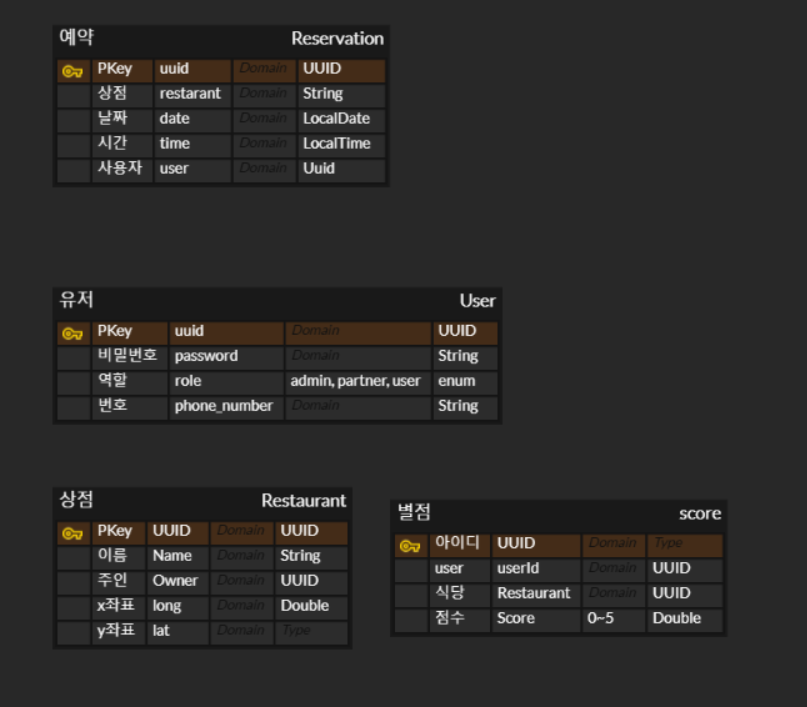
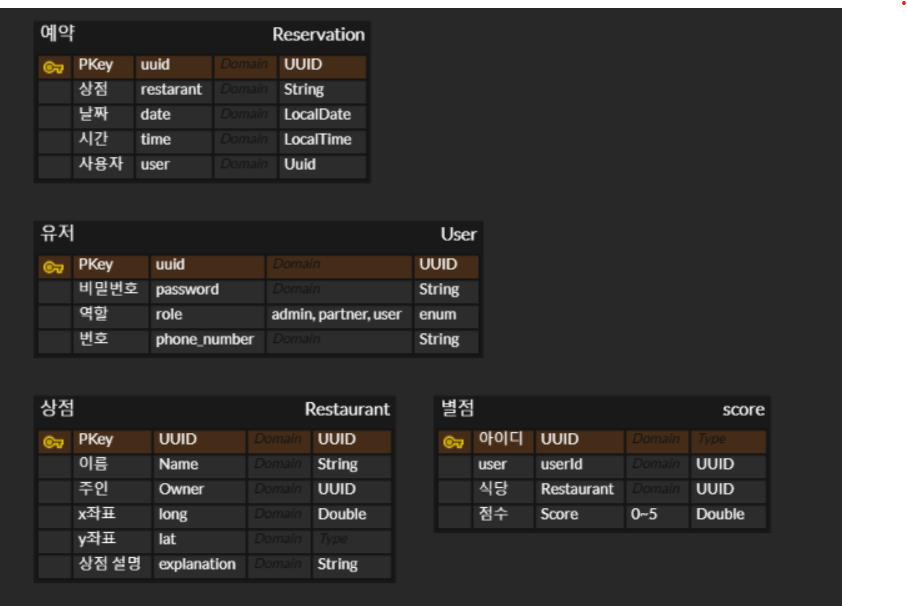
feat : 매장 등록 api

diff --git a/src/main/java/com/zerobase/restaurant/utils/UserUtil.java b/src/main/java/com/zerobase/restaurant/utils/UserUtil.java
@@ -1,7 +1,53 @@
 package com.zerobase.restaurant.utils;
 
+import com.zerobase.restaurant.dto.UserSessionDto;
+import com.zerobase.restaurant.enums.CustomError;
+import com.zerobase.restaurant.enums.RoleType;
+import org.springframework.security.core.Authentication;
+import org.springframework.security.core.GrantedAuthority;
+import org.springframework.security.core.context.SecurityContextHolder;
 import org.springframework.stereotype.Component;
+
+import java.util.Collection;
+import java.util.UUID;
 
 @Component
 public class UserUtil {
+    public static UserSessionDto getUserSessionDto() {
+        //Spring Security와 jwt를 통해 저장된 User정보를 가져와서 Dto에 매칭
+        Authentication authentication = SecurityContextHolder.getContext().getAuthentication();
+        String userUuid = authentication.getName();
+        Collection<? extends GrantedAuthority> authorities = authentication.getAuthorities();
+        return UserSessionDto.builder()
+                .userUuid(userUuid)
+                .roleType(authorities.iterator().next().toString())
+                .build();
+    }
+
+    public static UUID getUserIdWithPartnerOrAdmin() throws IllegalAccessException {
+        UserSessionDto userSessionDto = getUserSessionDto();
+        String auth = userSessionDto.getRoleType();
+
+        if(RoleType.ADMIN.getRole().equals(auth) || RoleType.PARTNER.getRole().equals(auth)) {
+            return UUID.fromString(userSessionDto.getUserUuid());
+        }
+        else
+            throw new IllegalAccessException(CustomError.UNAUTHORIZED.name());
+    }
+    public static UUID getUserIdWithPartner() throws IllegalAccessException {
+        UserSessionDto userSessionDto = getUserSessionDto();
+        String auth = userSessionDto.getRoleType();
+        if(RoleType.PARTNER.getRole().equals(auth)){
+            return UUID.fromString(userSessionDto.getUserUuid());
+        }
+        else throw new IllegalAccessException(CustomError.UNAUTHORIZED.name());
+    }
+    public static UUID getUserIdWithUser() throws IllegalAccessException {
+        UserSessionDto userSessionDto = getUserSessionDto();
+        String auth = userSessionDto.getRoleType();
+        if(RoleType.USER.getRole().equals(auth)){
+            return UUID.fromString(userSessionDto.getUserUuid());
+        }
+        else throw new IllegalAccessException(CustomError.UNAUTHORIZED.name());
+    }
 }

diff --git a/src/main/java/com/zerobase/restaurant/controller/ExceptionController.java b/src/main/java/com/zerobase/restaurant/controller/ExceptionController.java
@@ -2,6 +2,7 @@ package com.zerobase.restaurant.controller;
 
 import com.zerobase.restaurant.dto.ResponseDto;
 import com.zerobase.restaurant.enums.CustomError;
+import jakarta.persistence.EntityExistsException;
 import lombok.extern.slf4j.Slf4j;
 import org.springframework.http.HttpStatus;
 import org.springframework.http.ResponseEntity;
@@ -26,6 +27,22 @@ public class ExceptionController {
         log.error(customError.getErrorCode());//어떤 에러인지 확인
         log.error("발생 위치 : {}:{}",ex.getStackTrace()[0].getFileName(), ex.getStackTrace()[0].getLineNumber());//어디서 발생했는지 확인
         return new ResponseEntity<>(ResponseDto.error(HttpStatus.BAD_REQUEST, customError), HttpStatus.BAD_REQUEST);//에러 response
+    }
+
+    @ExceptionHandler(IllegalAccessException.class)
+    public ResponseEntity<ResponseDto> handleIllegalArgumentException(IllegalAccessException ex) {
+        CustomError customError = CustomError.valueOf(ex.getMessage());
+        log.error(customError.getErrorCode());//어떤 에러인지 확인
+        log.error("발생 위치 : {}:{}",ex.getStackTrace()[0].getFileName(), ex.getStackTrace()[0].getLineNumber());//어디서 발생했는지 확인
+        return new ResponseEntity<>(ResponseDto.error(HttpStatus.UNAUTHORIZED, customError), HttpStatus.UNAUTHORIZED);
+    }
+
+    @ExceptionHandler(EntityExistsException.class)
+    public ResponseEntity<ResponseDto> handleEntityExistsException(EntityExistsException ex) {
+        CustomError customError = CustomError.valueOf(ex.getMessage());//커스텀 객체로 생성
+        log.error(customError.getErrorCode());//어떤 에러인지 확인
+        log.error("발생 위치 : {}:{}",ex.getStackTrace()[0].getFileName(), ex.getStackTrace()[0].getLineNumber());//어디서 발생했는지 확인
+        return new ResponseEntity<>(ResponseDto.error(HttpStatus.CONFLICT, customError), HttpStatus.CONFLICT);//에러 response
     }
 
     @ExceptionHandler(Exception.class)

diff --git a/src/main/java/com/zerobase/restaurant/service/RestaurantDetailService.java b/src/main/java/com/zerobase/restaurant/service/RestaurantDetailService.java
@@ -1,0 +1,42 @@
+package com.zerobase.restaurant.service;
+
+import com.zerobase.restaurant.dto.ResponseDto;
+import com.zerobase.restaurant.dto.restaurantDetail.SaveRestaurantRequestDto;
+import com.zerobase.restaurant.entity.Restaurant;
+import com.zerobase.restaurant.enums.CustomError;
+import com.zerobase.restaurant.repository.RestaurantDetailRepository;
+import com.zerobase.restaurant.utils.UserUtil;
+import jakarta.persistence.EntityExistsException;
+import jakarta.transaction.Transactional;
+import lombok.RequiredArgsConstructor;
+import lombok.extern.slf4j.Slf4j;
+import org.springframework.stereotype.Service;
+
+import java.util.UUID;
+
+@Service
+@Transactional
+@Slf4j
+@RequiredArgsConstructor
+public class RestaurantDetailService {
+    private final RestaurantDetailRepository restaurantDetailRepository;
+
+    public ResponseDto<?> saveNewRestaurant(SaveRestaurantRequestDto requestDto) throws IllegalAccessException {
+        //Partner 회원인지 확인, 해당 메서드에서 권한 확인 완료
+        UUID uuid = UserUtil.getUserIdWithPartner();
+        //맞으면 가게 저장
+        Restaurant restaurant = Restaurant.builder()
+                .partnerId(uuid)
+                .name(requestDto.getName())
+                .explanation(requestDto.getExplanation())
+                .lat(requestDto.getLat())
+                .lon(requestDto.getLon())
+                .build();
+        //동일한 주인이 동일한 위치에 동일한 가게를 등록할 수 없도록 검증
+        if(restaurantDetailRepository.alreadySaved(restaurant)) throw new EntityExistsException(CustomError.ALREADY_SAVED_RESTAURANT.name());
+        restaurantDetailRepository.save(restaurant);
+        //성공 response
+        return ResponseDto.success();
+    }
+
+}

diff --git a/src/main/java/com/zerobase/restaurant/dto/restaurantDetail/SaveRestaurantRequestDto.java b/src/main/java/com/zerobase/restaurant/dto/restaurantDetail/SaveRestaurantRequestDto.java
@@ -1,0 +1,38 @@
+package com.zerobase.restaurant.dto.restaurantDetail;
+
+import lombok.Getter;
+import lombok.Setter;
+import org.springframework.util.StringUtils;
+
+import java.math.BigDecimal;
+import java.math.RoundingMode;
+
+@Getter
+@Setter
+public class SaveRestaurantRequestDto {
+    private String name;
+    private String explanation;
+    private BigDecimal lat;
+    private BigDecimal lon;
+    public void setLat(BigDecimal lat) {
+        this.lat = normalizeCoordinate(lat);
+    }
+
+    public void setLon(BigDecimal lon) {
+        this.lon = normalizeCoordinate(lon);
+    }
+    //소숫점 자리를 Entity와 일치시키기 위한 메서드
+    private BigDecimal normalizeCoordinate(BigDecimal value) {
+        if (value == null) return null;
+        return value.setScale(6, RoundingMode.HALF_UP); // 소수점 6자리, 반올림
+    }
+
+    public boolean isValid() {//null값 검사
+        return StringUtils.hasText(name) && StringUtils.hasText(explanation) && lat != null && lon != null;
+    }
+    //로그 확인용 ToString override
+    @Override
+    public String toString() {
+        return "AddRestaurantRequestDto [name=" + name + ", explanation=" + explanation + ", lat=" + lat + ", lon=" + lon + "]";
+    }
+}

diff --git a/src/main/java/com/zerobase/restaurant/controller/RestaurantDetailController.java b/src/main/java/com/zerobase/restaurant/controller/RestaurantDetailController.java
@@ -1,0 +1,26 @@
+package com.zerobase.restaurant.controller;
+
+import com.zerobase.restaurant.dto.ResponseDto;
+import com.zerobase.restaurant.dto.restaurantDetail.SaveRestaurantRequestDto;
+import com.zerobase.restaurant.enums.CustomError;
+import com.zerobase.restaurant.service.RestaurantDetailService;
+import lombok.RequiredArgsConstructor;
+import lombok.extern.slf4j.Slf4j;
+import org.springframework.http.ResponseEntity;
+import org.springframework.web.bind.annotation.PostMapping;
+import org.springframework.web.bind.annotation.RequestBody;
+import org.springframework.web.bind.annotation.RestController;
+
+@RestController
+@Slf4j
+@RequiredArgsConstructor
+public class RestaurantDetailController {
+    private final RestaurantDetailService restaurantDetailService;
+
+    @PostMapping("/restaurant")
+    public ResponseEntity<?> saveNewRestaurant(@RequestBody SaveRestaurantRequestDto requestDto) throws IllegalAccessException {
+        if(!requestDto.isValid()) throw new IllegalArgumentException(CustomError.BAD_REQUEST.name());//null 확인
+        ResponseDto<?> result = restaurantDetailService.saveNewRestaurant(requestDto);//식당 저장
+        return ResponseEntity.ok(result);
+    }
+}

diff --git a/src/main/java/com/zerobase/restaurant/repository/RestaurantDetailRepository.java b/src/main/java/com/zerobase/restaurant/repository/RestaurantDetailRepository.java
@@ -1,0 +1,31 @@
+package com.zerobase.restaurant.repository;
+
+import com.querydsl.jpa.impl.JPAQueryFactory;
+import com.zerobase.restaurant.dto.restaurantDetail.SaveRestaurantRequestDto;
+import com.zerobase.restaurant.entity.Restaurant;
+import lombok.RequiredArgsConstructor;
+import lombok.extern.slf4j.Slf4j;
+import org.springframework.stereotype.Repository;
+import static com.zerobase.restaurant.entity.QRestaurant.restaurant;
+
+
+@Repository
+@Slf4j
+@RequiredArgsConstructor
+public class RestaurantDetailRepository {
+    private final RestaurantRepository restaurantRepository;
+    private final JPAQueryFactory queryFactory;
+
+    public void save(Restaurant restaurant) {
+        restaurantRepository.save(restaurant);
+    }
+
+    public boolean alreadySaved(Restaurant inputData) {
+        return queryFactory.selectFrom(restaurant)
+                .where(restaurant.name.eq(inputData.getName()))
+                .where(restaurant.lat.eq(inputData.getLat()))
+                .where(restaurant.lon.eq(inputData.getLon()))
+                .where(restaurant.partnerId.eq(inputData.getPartnerId()))
+                .fetchOne() != null;
+    }
+}

diff --git a/src/test/java/com/zerobase/restaurant/RestaurantApplicationTests.java b/src/test/java/com/zerobase/restaurant/RestaurantApplicationTests.java
@@ -9,23 +9,23 @@ import org.springframework.test.context.TestPropertySource;
 @SpringBootTest
 class RestaurantApplicationTests {
 
-	@Autowired
-	private PooledPBEStringEncryptor encryptor;
+//	@Autowired
+//	private PooledPBEStringEncryptor encryptor;
+//
+//	@Test
+//	void contextLoads() {
+//	}
 
-	@Test
-	void contextLoads() {
-	}
-
-	@Test
-	void encryptor(){
-		String plainText = ""; // 암호화할 값
-		String encrypted = encryptor.encrypt(plainText); // 암호화
-		String decrypted = encryptor.decrypt(encrypted); // 복호화
-
-		System.out.println("🔐 원문     : " + plainText);
-		System.out.println("🔐 암호문   : " + encrypted);
-		System.out.println("🔐 복호문   : " + decrypted);
-	}
+//	@Test
+//	void encryptor(){
+//		String plainText = ""; // 암호화할 값
+//		String encrypted = encryptor.encrypt(plainText); // 암호화
+//		String decrypted = encryptor.decrypt(encrypted); // 복호화
+//
+//		System.out.println("🔐 원문     : " + plainText);
+//		System.out.println("🔐 암호문   : " + encrypted);
+//		System.out.println("🔐 복호문   : " + decrypted);
+//	}
 
 
 }

diff --git a/src/main/java/com/zerobase/restaurant/enums/CustomError.java b/src/main/java/com/zerobase/restaurant/enums/CustomError.java
@@ -9,15 +9,18 @@ public enum CustomError {
     //전체 에러
     BAD_REQUEST("E0001", "잘못된 요청입니다."),
     UNEXPECTED_ERROR("E0002", "예상치 못한 에러입니다"),
-    EMPTY_BODY("E0003", "Body가 비어있습니다"),
+    EMPTY_BODY("E0003", "Body가 잘못되었습니다"),
     //JWT 관련 에러
     HEADER_WITHOUT_TOKEN("E0101", "헤더에 토큰값이 존재하지 않습니다"),
     JWT_TOKEN_INVALID("E0102", "jwt토큰 형식이 잘못 되었습니다"),
+    JWT_EXPIRED("E0103", "Token이 만료되었습니다"),
     //user관련 에러
     UNAUTHORIZED("E0201", "접근 권한이 없습니다."),
     WRONG_ROLE_TYPE("E0202", "잘못된 역할 값입니다."),
     ALREADY_SIGN_UP("E0203", "이미 회원 가입한 대상입니다."),
-    WRONG_LOGIN_INFO("E0204", "로그인 정보가 잘못 되었습니다.")
+    WRONG_LOGIN_INFO("E0204", "로그인 정보가 잘못 되었습니다."),
+    //restaurant 관련 에러
+    ALREADY_SAVED_RESTAURANT("E0301", "이미 저장된 가게입니다")
     ;
 
     private final String errorCode;

diff --git a/src/main/java/com/zerobase/restaurant/controller/UserDetailController.java b/src/main/java/com/zerobase/restaurant/controller/UserDetailController.java
@@ -1,14 +1,13 @@
 package com.zerobase.restaurant.controller;
 
 import com.zerobase.restaurant.dto.ResponseDto;
-import com.zerobase.restaurant.dto.SignInRequestDto;
-import com.zerobase.restaurant.dto.SignUpRequestDto;
+import com.zerobase.restaurant.dto.userDetail.SignInRequestDto;
+import com.zerobase.restaurant.dto.userDetail.SignUpRequestDto;
 import com.zerobase.restaurant.enums.CustomError;
 import com.zerobase.restaurant.service.UserDetailService;
 import lombok.RequiredArgsConstructor;
 import lombok.extern.slf4j.Slf4j;
 import org.springframework.http.ResponseEntity;
-import org.springframework.web.bind.annotation.GetMapping;
 import org.springframework.web.bind.annotation.PostMapping;
 import org.springframework.web.bind.annotation.RequestBody;
 import org.springframework.web.bind.annotation.RestController;

diff --git a/src/main/java/com/zerobase/restaurant/entity/Restaurant.java b/src/main/java/com/zerobase/restaurant/entity/Restaurant.java
@@ -1,0 +1,25 @@
+package com.zerobase.restaurant.entity;
+
+import jakarta.persistence.*;
+import lombok.*;
+
+import java.math.BigDecimal;
+import java.util.UUID;
+
+@Getter
+@Entity
+@NoArgsConstructor(access = AccessLevel.PROTECTED)
+@AllArgsConstructor(access = AccessLevel.PRIVATE)
+@Builder
+public class Restaurant {
+    @Id
+    @GeneratedValue(strategy = GenerationType.UUID)
+    private UUID uuid;
+    private String name;
+    private UUID partnerId;//가게를 등록한 Partner 회원, Not FKey
+    @Column(precision = 10, scale = 6)
+    private BigDecimal lat;//y좌표
+    @Column(precision = 10, scale = 6)
+    private BigDecimal lon;//x좌표
+    private String explanation;
+}

diff --git a/src/main/java/com/zerobase/restaurant/service/UserDetailService.java b/src/main/java/com/zerobase/restaurant/service/UserDetailService.java
@@ -2,9 +2,9 @@ package com.zerobase.restaurant.service;
 
 import com.zerobase.restaurant.auth.JwtTokenProvider;
 import com.zerobase.restaurant.dto.ResponseDto;
-import com.zerobase.restaurant.dto.SignInRequestDto;
-import com.zerobase.restaurant.dto.SignInResponseDto;
-import com.zerobase.restaurant.dto.SignUpRequestDto;
+import com.zerobase.restaurant.dto.userDetail.SignInRequestDto;
+import com.zerobase.restaurant.dto.userDetail.SignInResponseDto;
+import com.zerobase.restaurant.dto.userDetail.SignUpRequestDto;
 import com.zerobase.restaurant.entity.UserData;
 import com.zerobase.restaurant.enums.CustomError;
 import com.zerobase.restaurant.enums.RoleType;

diff --git a/src/main/java/com/zerobase/restaurant/auth/JwtAuthorizationFilter.java b/src/main/java/com/zerobase/restaurant/auth/JwtAuthorizationFilter.java
@@ -53,7 +53,7 @@ public class JwtAuthorizationFilter extends OncePerRequestFilter {
             SecurityContextHolder.getContext().setAuthentication(authenticationToken);
             filterChain.doFilter(request, response);//다음 filter로 이동
         }catch (ExpiredJwtException e){
-            setErrorResponse(response, CustomError.UNAUTHORIZED);
+            setErrorResponse(response, CustomError.JWT_EXPIRED);
         }catch (JwtException e){
             setErrorResponse(response, CustomError.HEADER_WITHOUT_TOKEN);
         }
